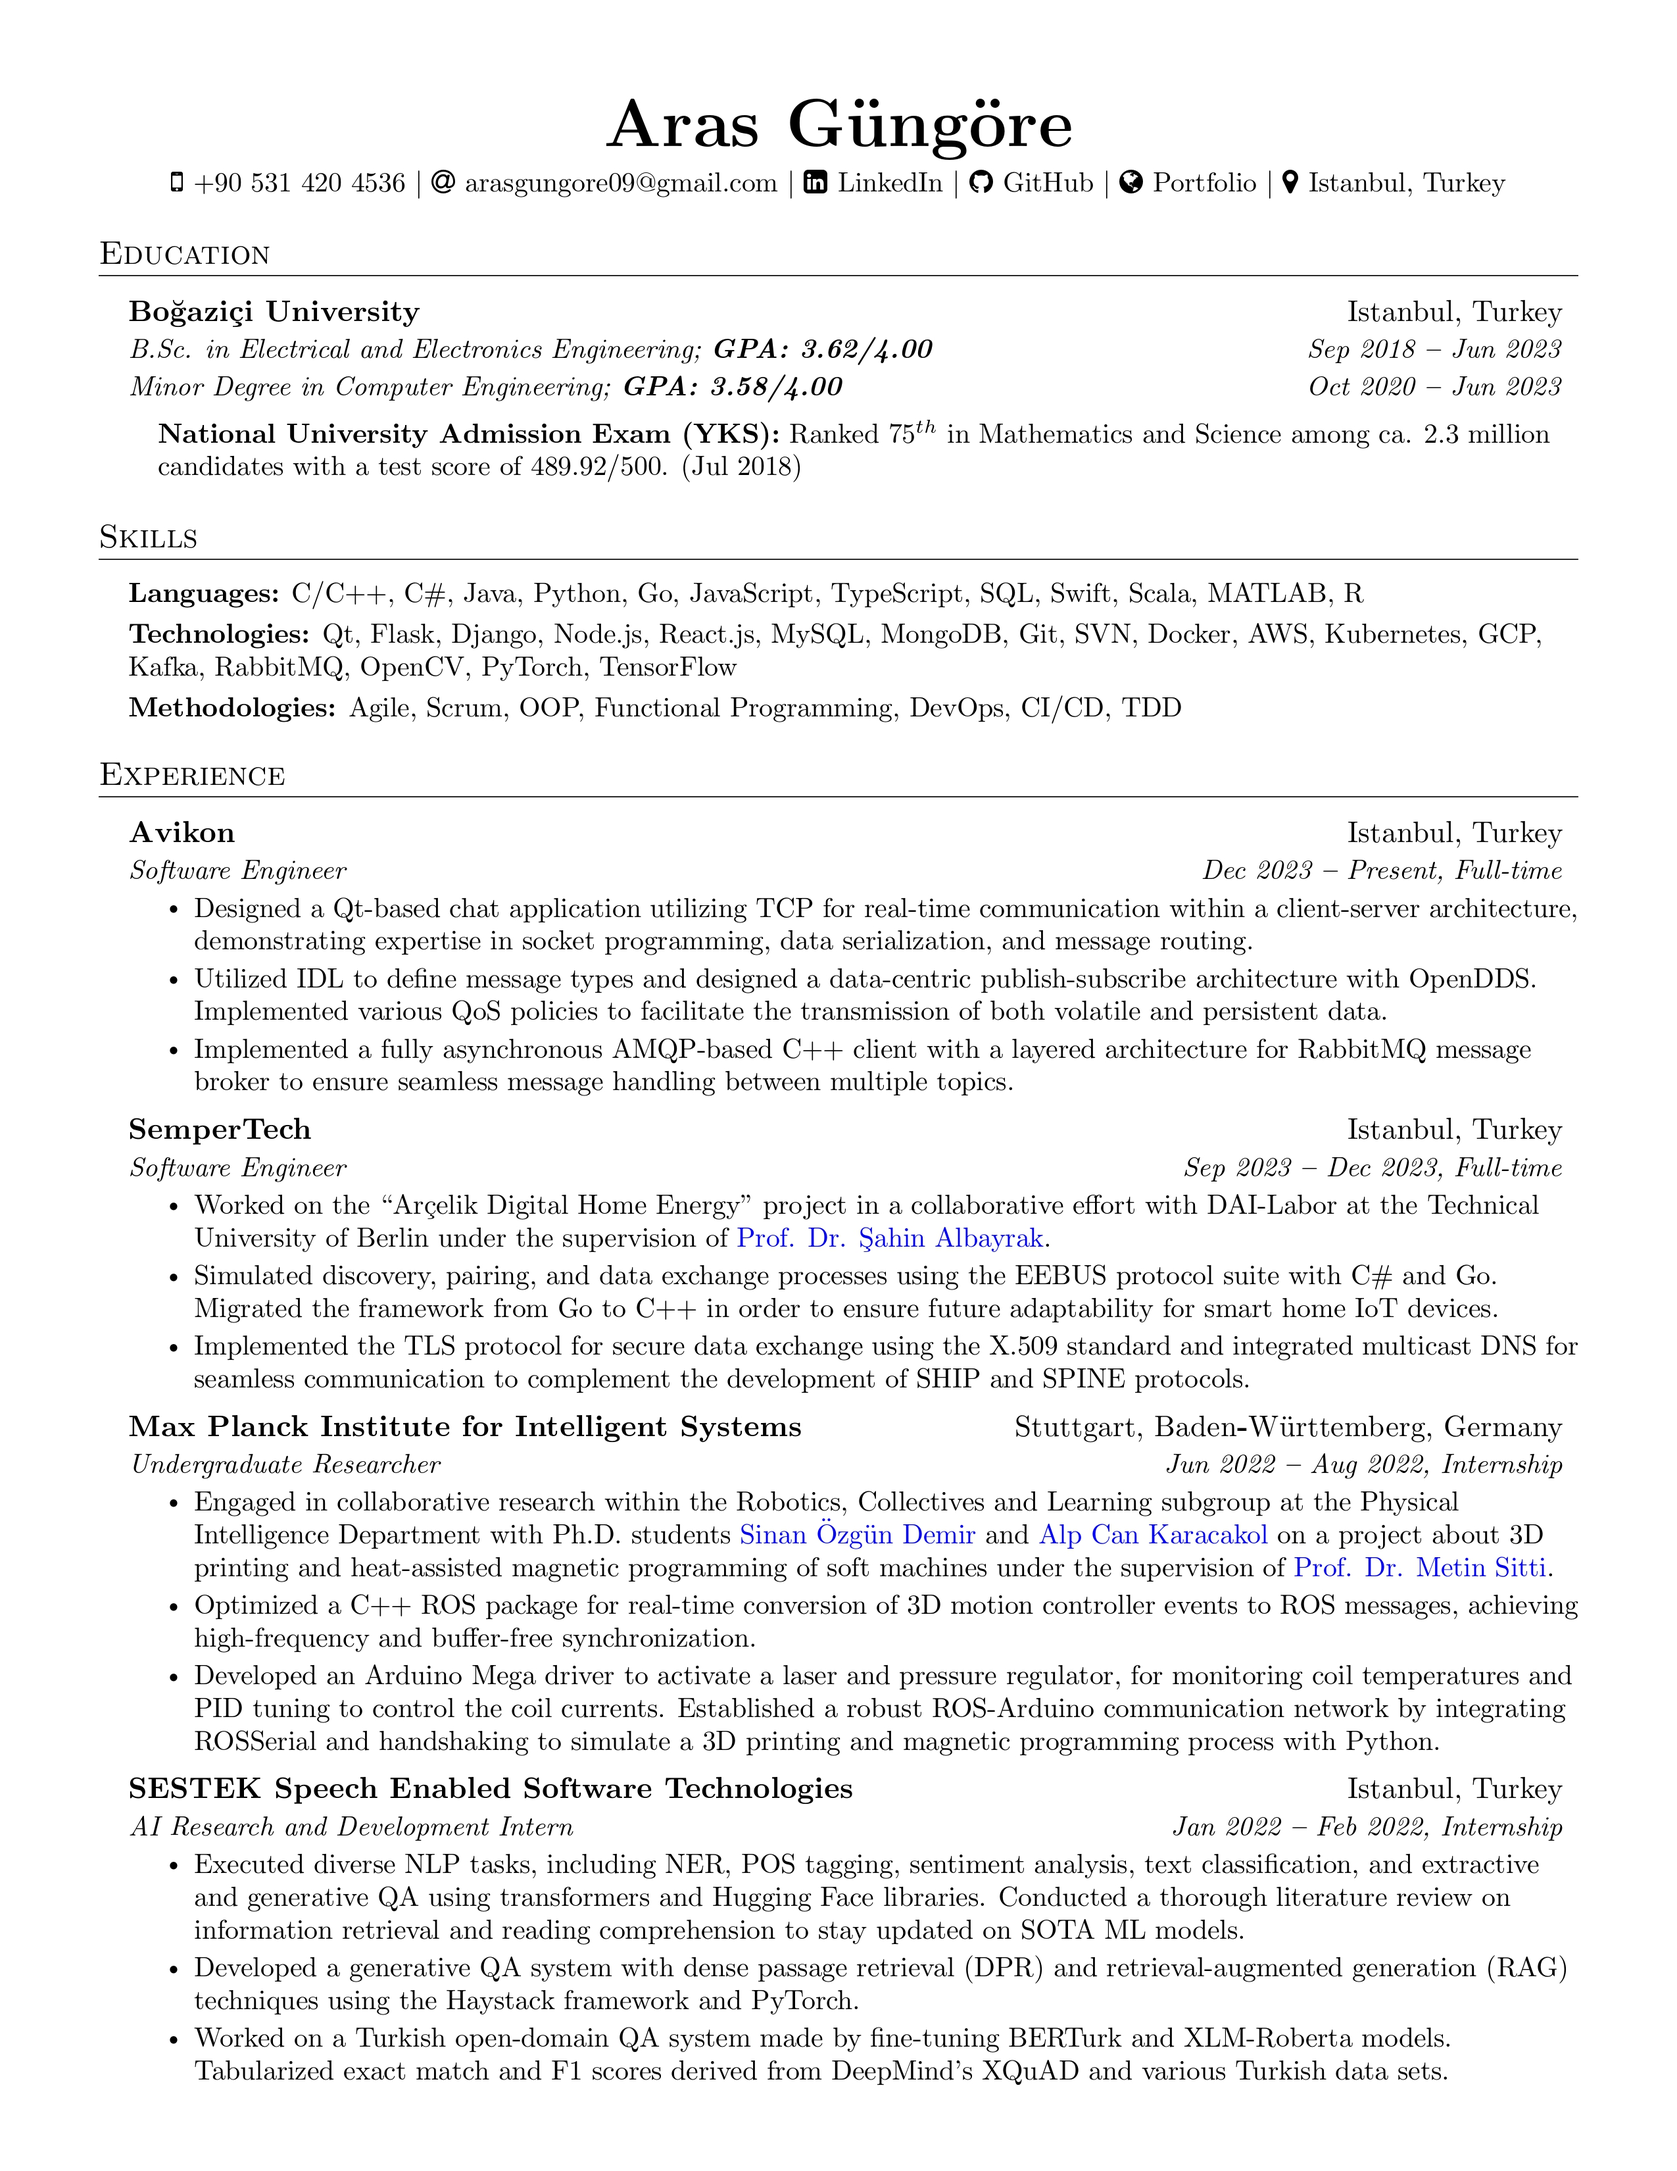
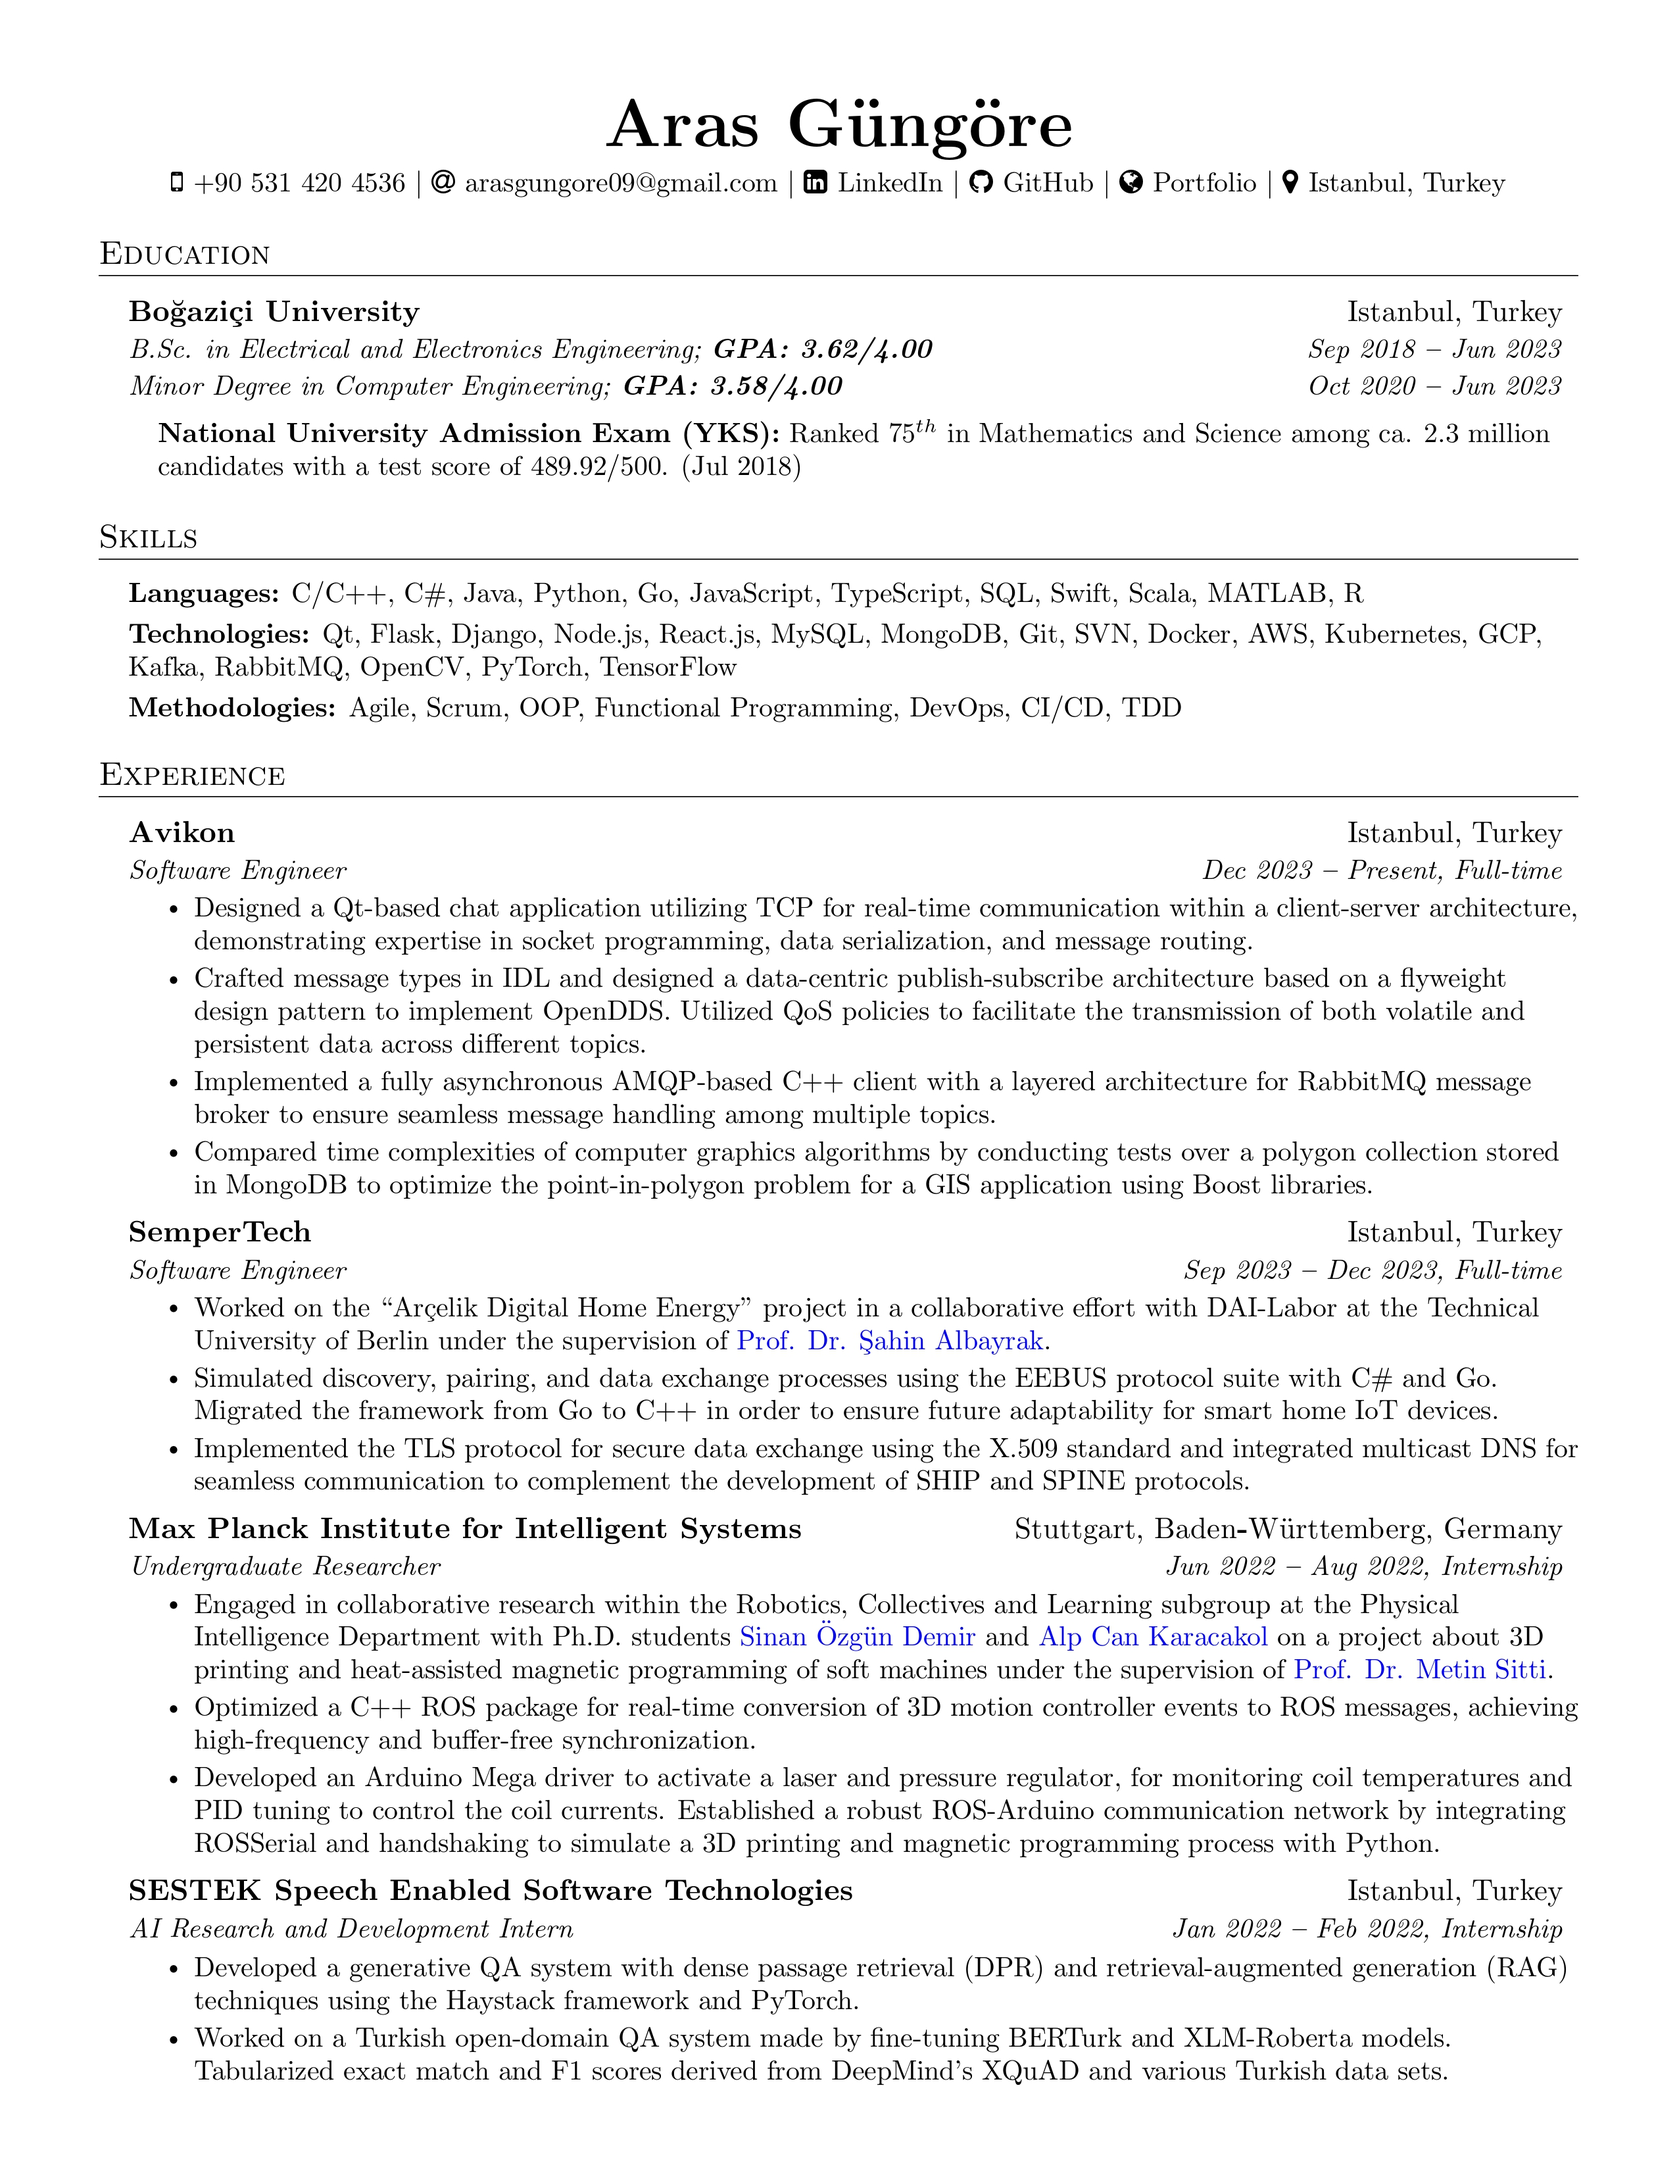
Updated CV

Changed region(s): [[0.062, 0.437, 0.9294, 0.9052]]

diff --git a/main.tex b/main.tex
@@ -207,8 +207,9 @@
       {Software Engineer}{Dec 2023 \textbf{--} Present, Full-time}
         \resumeItemListStart
             \resumeItem{Designed a Qt-based chat application utilizing TCP for real-time communication within a client-server architecture, demonstrating expertise in socket programming, data serialization, and message routing.}
-            \resumeItem{Utilized IDL to define message types and designed a data-centric publish-subscribe architecture with OpenDDS. Implemented various QoS policies to facilitate the transmission of both volatile and persistent data.}
-            \resumeItem{Implemented a fully asynchronous AMQP-based C++ client with a layered architecture for RabbitMQ message broker to ensure seamless message handling between multiple topics.}
+            \resumeItem{Crafted message types in IDL and designed a data-centric publish-subscribe architecture based on a flyweight design pattern to implement OpenDDS. Utilized QoS policies to facilitate the transmission of both volatile and persistent data across different topics.}
+            \resumeItem{Implemented a fully asynchronous AMQP-based C++ client with a layered architecture for RabbitMQ message broker to ensure seamless message handling among multiple topics.}
+            \resumeItem{Compared time complexities of computer graphics algorithms by conducting tests over a polygon collection stored in MongoDB to optimize the point-in-polygon problem for a GIS application using Boost libraries.}
         \resumeItemListEnd
 
     \resumeSubheading
@@ -254,7 +255,7 @@
       {SESTEK Speech Enabled Software Technologies}{Istanbul, Turkey}
       {AI Research and Development Intern}{Jan 2022 \textbf{--} Feb 2022, Internship}
         \resumeItemListStart
-            \resumeItem{Executed diverse NLP tasks, including NER, POS tagging, sentiment analysis, text classification, and extractive and generative QA using transformers and Hugging Face libraries. Conducted a thorough literature review on information retrieval and reading comprehension to stay updated on SOTA ML models.}
+            % \resumeItem{Executed diverse NLP tasks, including NER, POS tagging, sentiment analysis, text classification, and extractive and generative QA using transformers and Hugging Face libraries. Conducted a thorough literature review on information retrieval and reading comprehension to stay updated on SOTA ML models.}
             \resumeItem{Developed a generative QA system with dense passage retrieval (DPR) and retrieval-augmented generation (RAG) techniques using the Haystack framework and PyTorch.}
             \resumeItem{Worked on a Turkish open-domain QA system made by fine-tuning BERTurk and XLM-Roberta models. Tabularized exact match and F1 scores derived from DeepMind's XQuAD and various Turkish data sets.}
         \resumeItemListEnd
